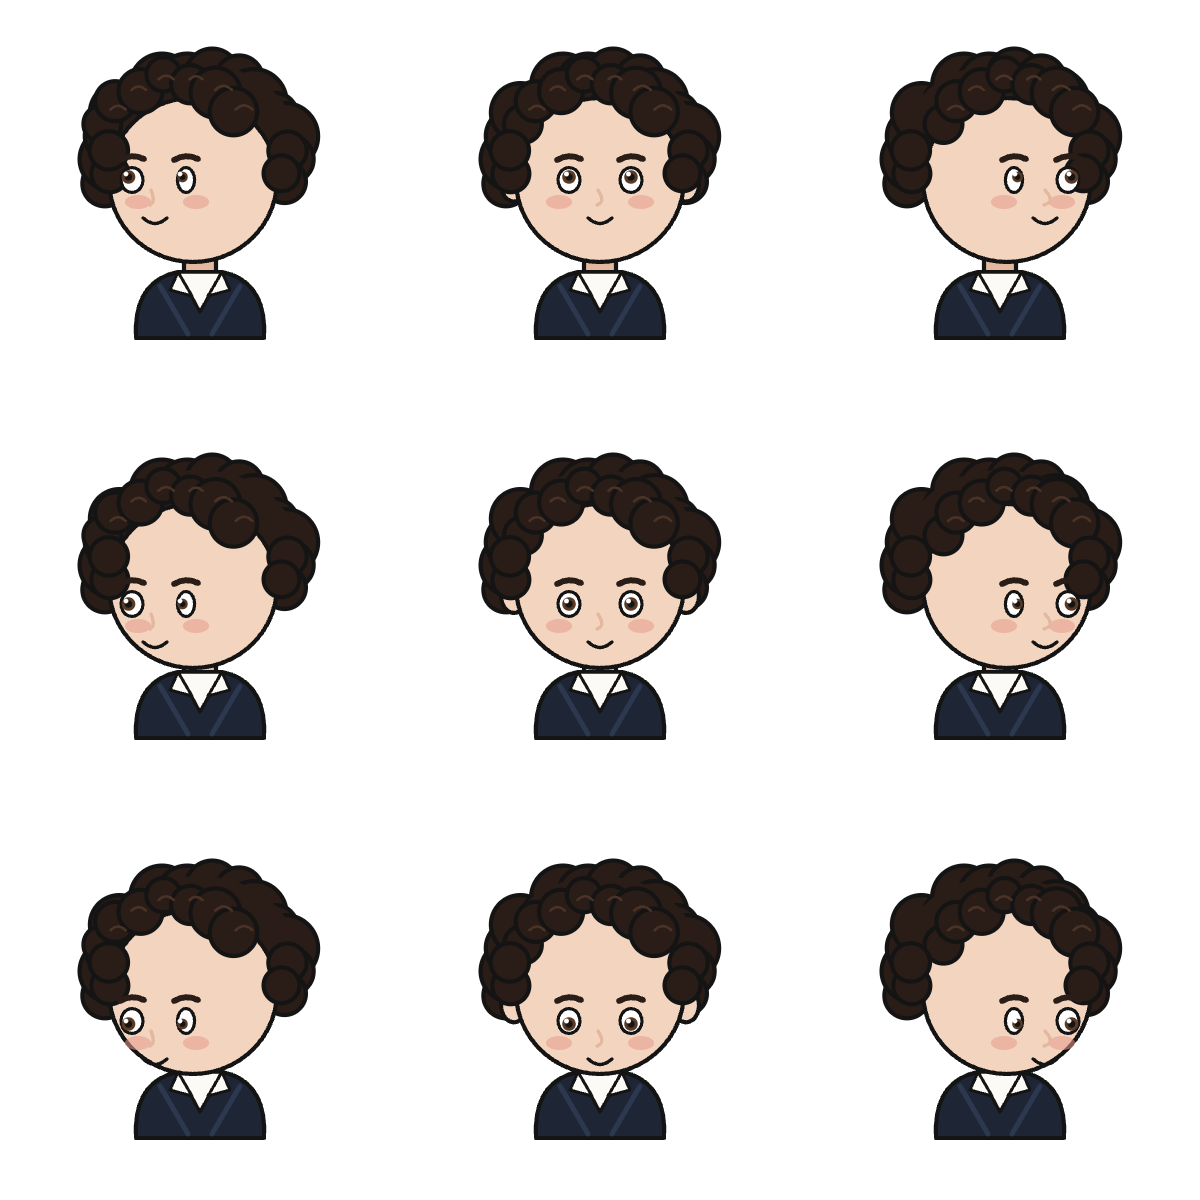
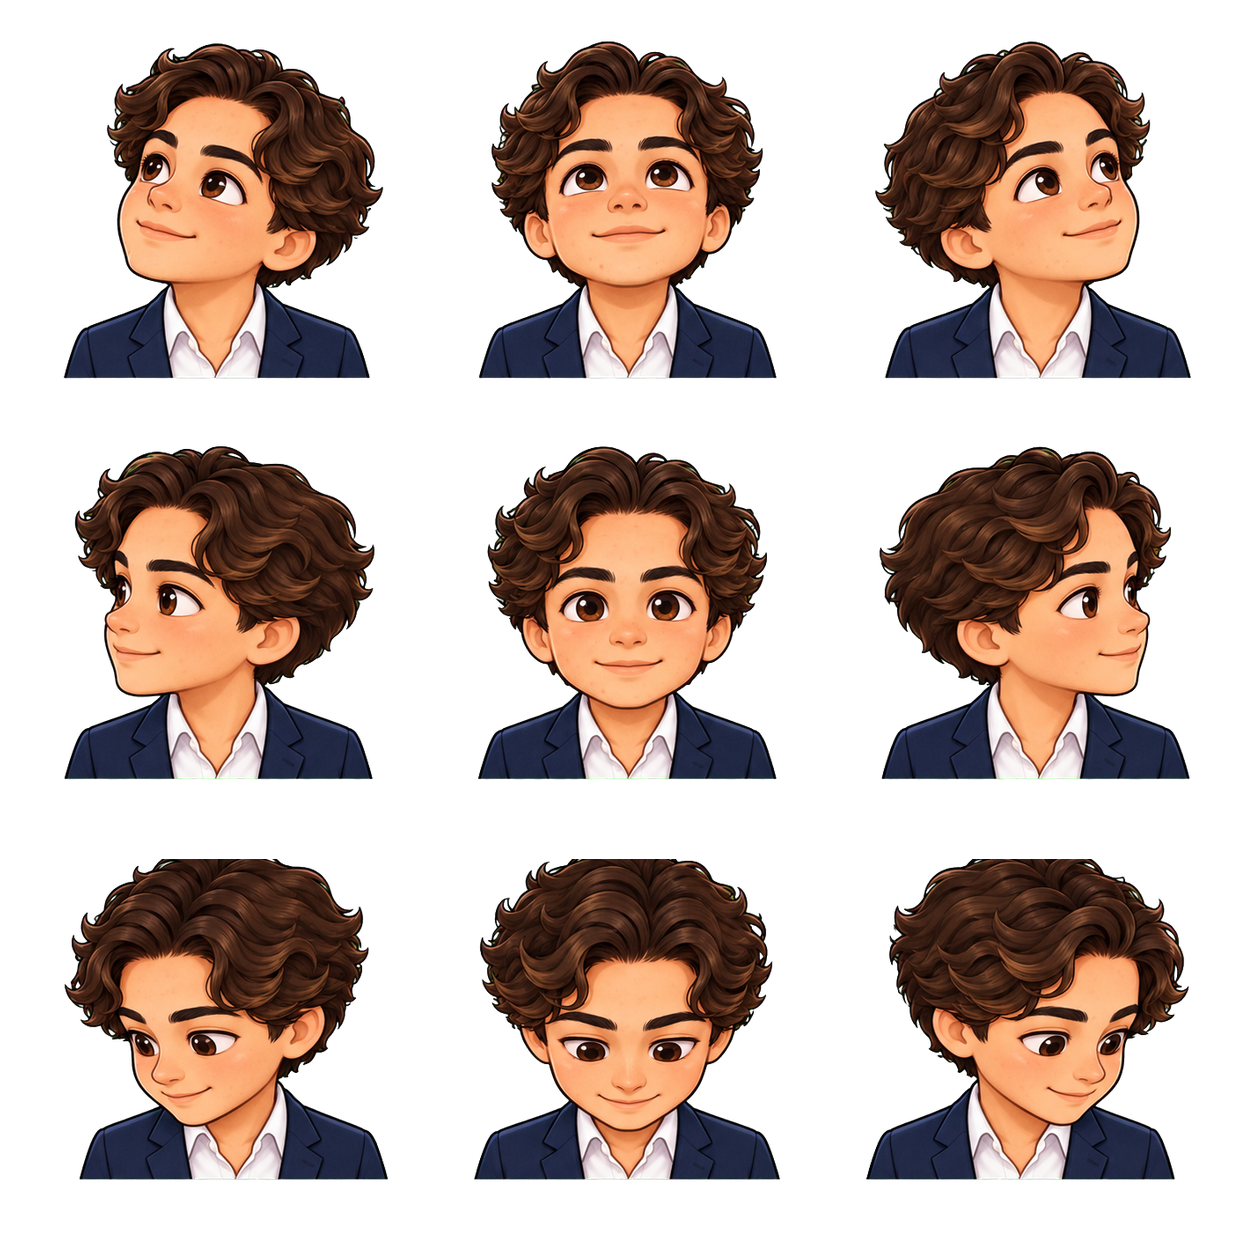
Hero: the mascot redrawn, gaze only (no click reaction, decorative)
- new sheets, drawn with ChatGPT's image model from the portrait and built by the
  page-mascot skill; the hand-drawn ink version (draw.py and its SVGs) is dropped
- a click does nothing any more: the slot is inert and aria-hidden, which takes the
  component's button out of the tab order, of the accessibility tree and of
  hit-testing; only the gaze remains (it listens on window)
- the reactions sheet is no longer requested: the component still needs one, it is
  given the directions sheet again
- same place, same size; the offset under the rule goes from .3rem to .1rem because
  the new drawing sits lower in its cell (hair line back on the cap line of the name)

diff --git a/components/Hero.tsx b/components/Hero.tsx
@@ -7,6 +7,8 @@ import { prefersReducedMotion, useMotion } from "@/lib/motion";
 import { Mascot } from "page-mascot";
 import { profile } from "@/content";
 
+const MASCOT_SHEET = "/mascots/ben-directions.webp";
+
 /**
  * The name is set in Archivo and printed on its width axis: it enters
  * condensed (wdth 62), widens to 125 as the curtain lifts, then compresses
@@ -16,8 +18,8 @@ export default function Hero() {
   const scope = useRef<HTMLElement>(null);
   const name = useRef<HTMLHeadingElement>(null);
   const { intro } = useMotion();
-  // The ink head is mounted only for mouse/trackpad visitors on a wide enough
-  // viewport: Chrome fetches its two sprite sheets (≈230 KB) even inside a
+  // The mascot is mounted only for mouse/trackpad visitors on a wide enough
+  // viewport: Chrome fetches its sprite sheet (≈225 KB) even inside a
   // display:none subtree, and a phone has neither a pointer to follow nor the
   // room beside the name. Client-only by construction, so no hydration mismatch.
   const [mascot, setMascot] = useState(false);
@@ -52,7 +54,7 @@ export default function Hero() {
         .from(q(".hero-top"), { y: -10, duration: 0.8 }, "-=1.2")
         .from(q(".hero-grid"), { y: 24, duration: 0.9 }, "-=1")
         .from(q(".stamp"), { scale: 1.6, rotate: -14, duration: 0.5, ease: "power4.out" }, "-=0.4");
-      // The ink head pops up from its feet as the name reaches full width (1.25 s in,
+      // The mascot pops up from its feet as the name reaches full width (1.25 s in,
       // inside the 1.92 s the name takes, so the scroll kinetics start no later).
       // Not from nothing: it fades while it grows, with a small overshoot. Opacity is
       // fine here, it is an image, never the LCP element nor a contrast target.
@@ -73,18 +75,18 @@ export default function Hero() {
       <div className="hero-top">
         <span>{profile.heroTopLeft}</span>
         <span>{profile.heroTopRight}</span>
-        {/* The author, in ink: a 3×3 sprite head (page-mascot, drawn in characters/ben)
-            that follows the pointer and reacts to a click. Hung from the top rule at the
-            right, level with the first line of the name; the wrapper carries the
-            position and the size because the component sets its own inline styles. */}
+        {/* The author as a 3×3 sprite head (page-mascot, sheets from characters/ben) whose
+            gaze follows the pointer. Hung from the top rule at the right, level with the
+            first line of the name; the wrapper carries the position and the size because
+            the component sets its own inline styles.
+            Decorative, and nothing else: `inert` takes the component's button out of the
+            tab order, of the accessibility tree and of hit-testing, so a click or a key
+            never reaches it and it never plays a reaction (the gaze listens on window and
+            is unaffected). The component still asks for a reactions sheet: it gets the
+            directions one again, so no second file is ever requested. */}
         {mascot && (
-          <span className="mascot-slot">
-            <Mascot
-              directions="/mascots/ben-directions.webp"
-              reactions="/mascots/ben-reactions.webp"
-              size={112}
-              label="Benjamin mascot"
-            />
+          <span className="mascot-slot" aria-hidden="true" inert>
+            <Mascot directions={MASCOT_SHEET} reactions={MASCOT_SHEET} size={112} />
           </span>
         )}
       </div>

diff --git a/app/globals.css b/app/globals.css
@@ -95,13 +95,13 @@ html.has-cursor.is-live #cursor{opacity:1}
 .portrait-frame img{width:100%;height:auto;aspect-ratio:4/5;object-fit:cover;object-position:50% 22%;filter:grayscale(1) contrast(1.05)}
 .portrait figcaption{margin-top:.6rem;font-style:italic;font-size:.95rem;color:var(--muted)}
 .stamp{position:absolute;right:-.5rem;bottom:3.4rem;transform:rotate(-5deg);font-family:var(--display);font-weight:600;font-size:.72rem;letter-spacing:.14em;text-transform:uppercase;color:var(--red);border:2px solid var(--red);border-radius:4px;padding:.45rem .7rem;background:var(--bg);will-change:transform,opacity}
-/* the author in ink (page-mascot): hung from the top rule at the right, its hair line on the
+/* the author (page-mascot), decorative: hung from the top rule at the right, its hair line on the
    cap line of the first name (the rule, the name's top margin, then the sheet's own top space).
-   About .83 of the name's line height: the component sizes its button inline, hence the !important. */
+   About .83 of the name's line height: the component sizes its button inline, hence the !important.
+   Never a pointer target (the slot is inert in the markup as well): the gaze only. */
 .hero-top{position:relative}
-.mascot-slot{position:absolute;right:0;top:calc(100% + 1px + clamp(2rem,8vh,5rem) + .3rem);z-index:1;transform-origin:50% 100%;will-change:transform}
+.mascot-slot{position:absolute;right:0;top:calc(100% + 1px + clamp(2rem,8vh,5rem) + .1rem);z-index:1;transform-origin:50% 100%;will-change:transform;pointer-events:none}
 .mascot-slot button{width:clamp(64px,7.8vw,112px)!important;height:clamp(64px,7.8vw,112px)!important}
-html.has-cursor .mascot-slot button{cursor:none!important}
 @media (hover:none),(max-width:820px){.mascot-slot{display:none}}
 @media (max-width:820px){.meta li{grid-template-columns:8rem 1fr}}
 @media (min-width:821px){.hero-grid{grid-template-columns:minmax(0,24rem) minmax(0,1fr);grid-template-areas:"portrait statement" "portrait facts";grid-template-rows:1fr auto;align-items:end}.stamp{right:-1.75rem}}

diff --git a/README.md b/README.md
@@ -35,7 +35,7 @@ Every figure comes from the CV and holds up in an interview; nothing is invented
 - Scroll reveals (once), count-up metrics, custom cursor and magnetic buttons on fine pointers only.
 - Figures under the case studies: 7 s muted loops (H.264 + WebM, `preload="none"`) that play only while on screen and can be paused.
 - Photo bands (one per city or highlight): the cover drifts a little against the scroll, the city name widens on the width axis, a band opens on the rest of its roll.
-- The author in ink, top right of the hero: a 3×3 sprite head ([`page-mascot`](https://www.npmjs.com/package/page-mascot)) that follows the pointer and reacts to a click. Drawn by hand as SVG in `characters/ben/draw.py`, built into the two sheets in `public/mascots/` by the page-mascot skill. Mounted for mouse/trackpad visitors from 821px up only, so phones download nothing.
+- The author, top right of the hero: a 3×3 sprite head ([`page-mascot`](https://www.npmjs.com/package/page-mascot)) whose gaze follows the pointer. Decorative only: a click does nothing, it is out of the tab order and hidden from assistive technology. Drawn with ChatGPT's image model from the portrait (the two source sheets are in `characters/ben/`), built into `public/mascots/` by the page-mascot skill; the page only ever requests the directions sheet. Mounted for mouse/trackpad visitors from 821px up only, so phones download nothing.
 - `prefers-reduced-motion`: no preloader, no smooth scroll, no kinetic type, no parallax, clips stay on their poster until asked; the content is identical.
 
 ## Run
